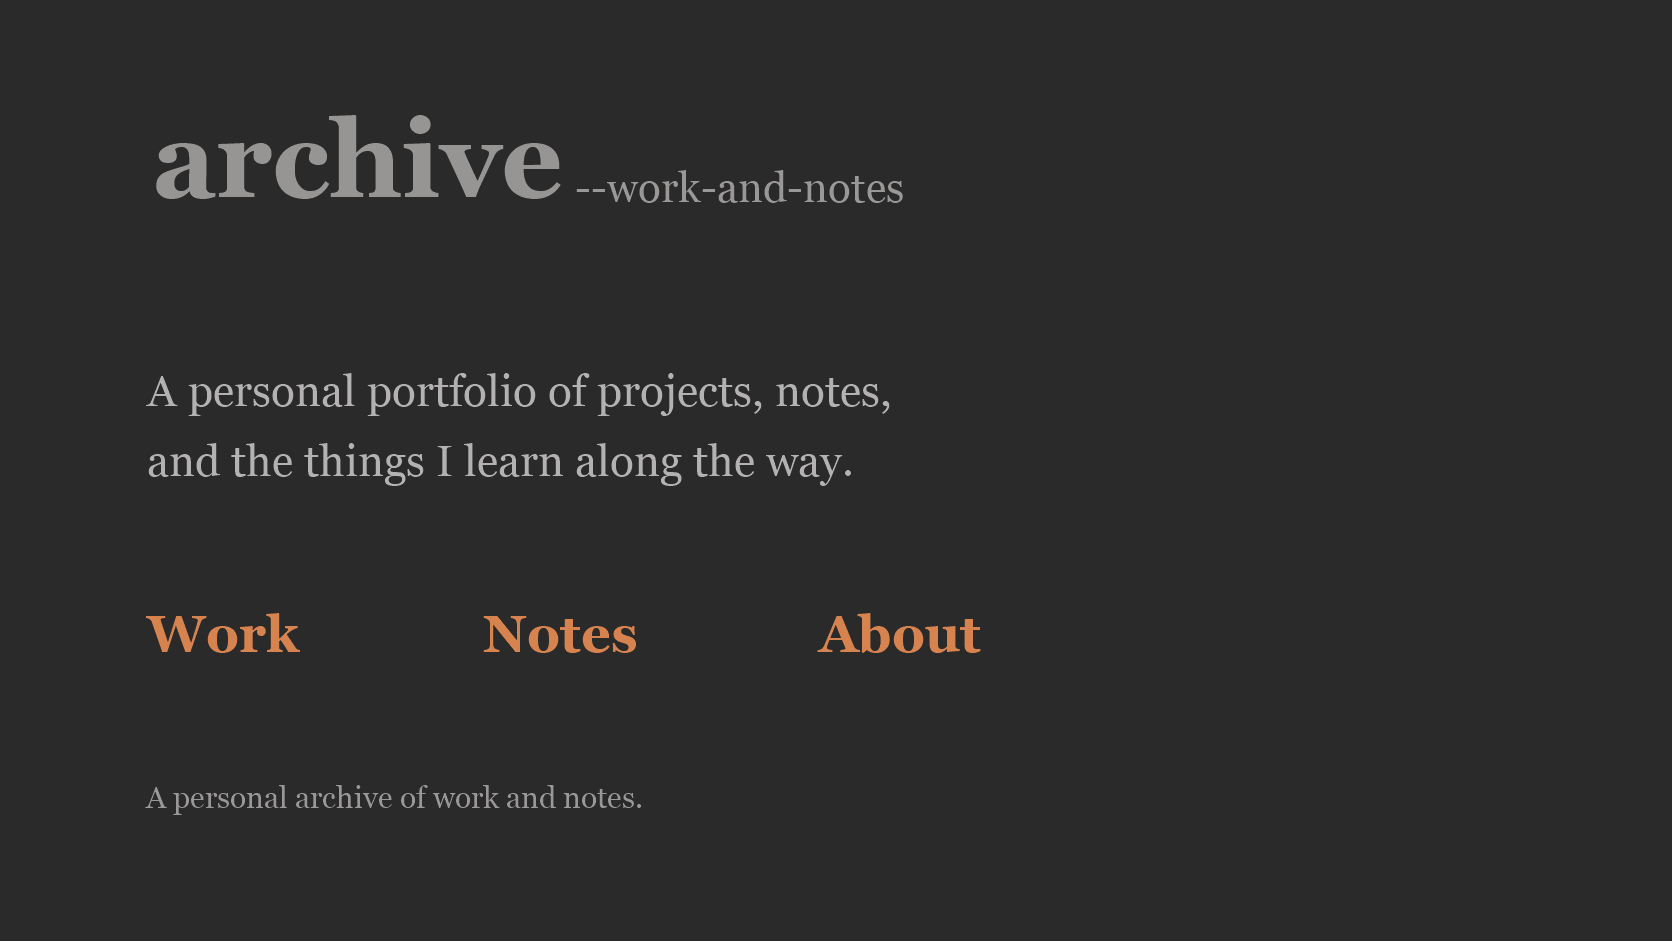
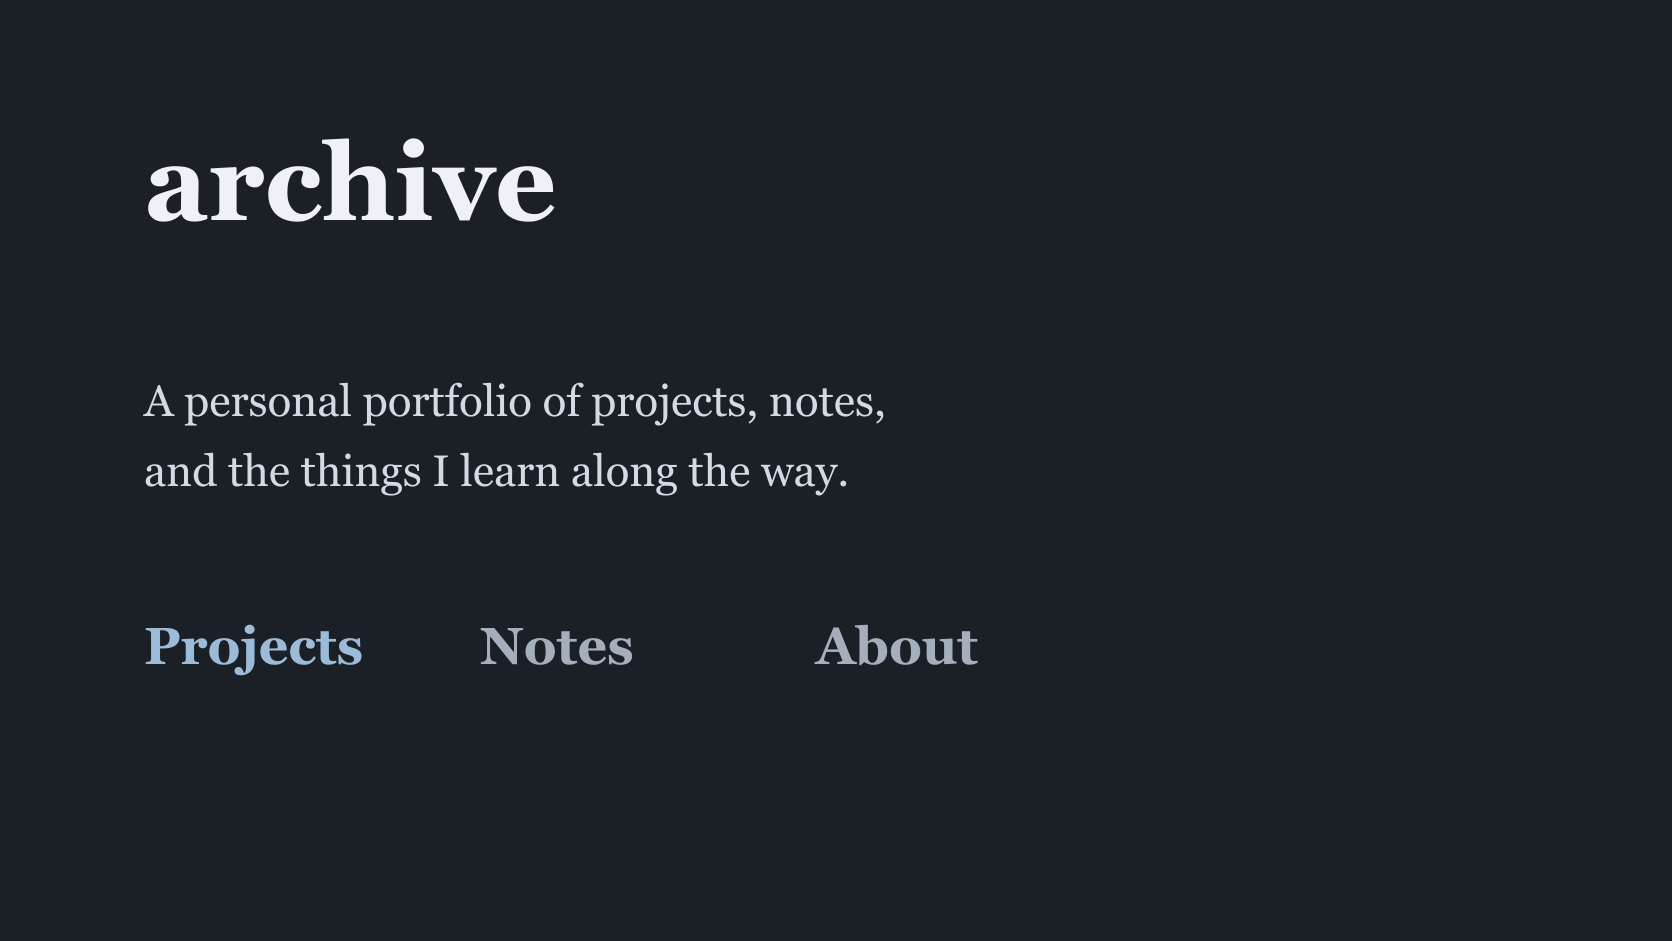
Give portfolio a restrained graphite and steel-blue palette

diff --git a/styles.css b/styles.css
@@ -1,13 +1,17 @@
 :root {
   color-scheme: dark;
-  --page: #2a2a2a;
-  --surface: #333333;
-  --field: #3d3d3a;
-  --ink: #b3b1b1;
-  --muted: #9a9797;
-  --accent: #d7834f;
-  --accent-hover: #e0a079;
-  --danger: #e6a091;
+  --page: #1b2027;
+  --surface: #252c35;
+  --field: #303945;
+  --surface-hover: #3a4552;
+  --ink: #d4dae1;
+  --heading: #eef1f5;
+  --muted: #a5afbc;
+  --accent: #9bbbd8;
+  --accent-hover: #c3d9ec;
+  --danger: #efb1aa;
+  --error-surface: #3b282c;
+  --code-surface: #151a21;
   --font: Adelle, "Roboto Slab", "DejaVu Serif", Georgia, "Times New Roman", sans-serif;
 }
 * { box-sizing: border-box; }
@@ -27,8 +31,8 @@ input:focus-visible, textarea:focus-visible, select:focus-visible { outline-offs
 .skip-link:focus { transform: none; }
 .site-shell { max-width: 960px; margin: 0 auto; padding: 32px 24px; }
 .site-header { display: flex; align-items: center; gap: 20px; min-height: 56px; }
-.brand { min-width: 0; color: #979594; font: bold 42px/1.15 var(--font); overflow-wrap: anywhere; }
-.brand:hover { color: var(--ink); text-decoration: none; }
+.brand { min-width: 0; color: var(--heading); font: bold 42px/1.15 var(--font); overflow-wrap: anywhere; }
+.brand:hover { color: var(--accent-hover); text-decoration: none; }
 .search-region { width: 100%; margin-top: 8px; }
 .search-region label { display: block; margin-bottom: 8px; color: var(--muted); font-size: 14px; }
 .search-field { position: relative; }
@@ -43,7 +47,7 @@ input::placeholder, textarea::placeholder { color: var(--muted); opacity: 1; }
 .archive-layout { display: grid; grid-template-columns: 156px minmax(0,1fr); gap: 42px; min-height: 250px; scroll-margin-top: 24px; }
 .archive-navigation { align-self: start; position: sticky; top: 24px; }
 .switcher { display: flex; flex-direction: column; gap: 4px; }
-.switcher button { width: 100%; min-height: 44px; padding: 8px 0; color: #979594; background: transparent; border: 0; text-align: left; }
+.switcher button { width: 100%; min-height: 44px; padding: 8px 0; color: var(--muted); background: transparent; border: 0; text-align: left; }
 .switcher button:hover, .switcher button[aria-selected="true"] { color: var(--accent); }
 .tab-top { display: flex; align-items: baseline; justify-content: space-between; gap: 10px; font-size: 20px; font-weight: bold; line-height: 24px; }
 .archive-content { min-width: 0; }
@@ -56,7 +60,7 @@ input::placeholder, textarea::placeholder { color: var(--muted); opacity: 1; }
 .post-list { display: grid; grid-template-columns: minmax(0,1fr); gap: 32px; max-width: 650px; }
 .post-item { min-width: 0; }
 .post-heading { margin: 0 0 7px; font-size: 22px; font-weight: bold; line-height: 28px; }
-.post-title { display: inline-block; max-width: 100%; min-height: 44px; padding-block: 8px; color: var(--accent); overflow-wrap: anywhere; }
+.post-title { display: inline-block; max-width: 100%; min-height: 44px; padding-block: 8px; color: var(--heading); overflow-wrap: anywhere; }
 .post-preview { margin: 0; overflow-wrap: anywhere; }
 .post-meta { margin: 0 0 5px; color: var(--muted); font-size: 12px; line-height: 18px; }
 #panel-about .post-list { grid-template-columns: 1fr; max-width: 600px; }
@@ -67,12 +71,12 @@ input::placeholder, textarea::placeholder { color: var(--muted); opacity: 1; }
 .plain { display: inline-flex; align-items: center; justify-content: center; gap: 8px; min-height: 44px; padding: 8px 0; color: var(--accent); background: transparent; border: 0; font-size: 14px; line-height: 22px; text-align: left; }
 .plain:hover { color: var(--accent-hover); text-decoration: underline; }
 .primary, .secondary { display: inline-flex; align-items: center; justify-content: center; gap: 10px; min-height: 44px; padding: 9px 16px; border: 0; border-radius: 3px; font-weight: bold; line-height: 22px; }
-.primary { color: #202020; background: var(--accent); }
+.primary { color: var(--page); background: var(--accent); }
 .primary:hover { background: var(--accent-hover); }
-.secondary { color: var(--ink); background: #4b4b47; }
-.secondary:hover { background: #555551; }
+.secondary { color: var(--ink); background: var(--field); }
+.secondary:hover { background: var(--surface-hover); }
 .danger { color: var(--danger); }
-.primary.danger { color: #202020; background: var(--danger); }
+.primary.danger { color: var(--page); background: var(--danger); }
 .board-controls { display: flex; flex-wrap: wrap; align-items: center; justify-content: space-between; gap: 4px 18px; margin-bottom: 24px; }
 .owner-label { color: var(--muted); font-size: 13px; }
 .workspace-actions { display: flex; flex-wrap: wrap; gap: 18px; align-items: center; }
@@ -81,24 +85,24 @@ input::placeholder, textarea::placeholder { color: var(--muted); opacity: 1; }
 .detail { max-width: 700px; padding-bottom: 12px; scroll-margin-top: 24px; }
 .back { margin: -6px 0 16px; font-size: 13px; }
 .detail-meta { margin: 0 0 6px; color: var(--muted); font-size: 12px; }
-.detail h1 { margin: 0 0 20px; color: var(--accent); font-size: 28px; font-weight: bold; line-height: 36px; overflow-wrap: anywhere; }
+.detail h1 { margin: 0 0 20px; color: var(--heading); font-size: 28px; font-weight: bold; line-height: 36px; overflow-wrap: anywhere; }
 .detail h1:focus { outline: none; }
 .subtitle { margin: -4px 0 22px; font-size: 17px; line-height: 25px; overflow-wrap: anywhere; }
 .body { font-size: 16px; line-height: 25px; overflow-wrap: anywhere; }
 .body p { margin: 0 0 18px; white-space: pre-wrap; }
-.body h2, .body h3 { margin: 26px 0 12px; color: var(--accent); font-weight: bold; line-height: 28px; }
+.body h2, .body h3 { margin: 26px 0 12px; color: var(--heading); font-weight: bold; line-height: 28px; }
 .body h2 { font-size: 22px; }
 .body h3 { font-size: 18px; }
 .body ul, .body ol { margin: 0 0 18px; padding-left: 24px; }
 .body li { margin: 4px 0; }
-.body code { padding: 2px 4px; color: #afa7a0; background: #1f1f1e; border-radius: 2px; font: 13px/20px Courier, monospace; }
-.body pre { max-width: 100%; overflow: auto; padding: 12px 16px; background: #1f1f1e; border-radius: 3px; }
+.body code { padding: 2px 4px; color: var(--ink); background: var(--code-surface); border-radius: 2px; font: 13px/20px Courier, monospace; }
+.body pre { max-width: 100%; overflow: auto; padding: 12px 16px; background: var(--code-surface); border-radius: 3px; }
 .body pre code { padding: 0; }
 .detail-link { display: inline-block; margin: 0 0 18px; overflow-wrap: anywhere; }
 .share-action { display: flex; align-items: center; flex-wrap: wrap; gap: 16px; margin-top: 12px; }
 .copy-status { color: var(--muted); font-size: 13px; }
 .owner-actions { display: flex; gap: 24px; margin-top: 16px; }
-.detail-error, .error { padding: 12px 14px; color: var(--danger); background: #422f2a; font-size: 14px; line-height: 22px; }
+.detail-error, .error { padding: 12px 14px; color: var(--danger); background: var(--error-surface); font-size: 14px; line-height: 22px; }
 .site-footer { display: flex; align-items: flex-end; justify-content: space-between; gap: 24px; margin-top: 40px; }
 .footer-note { margin: 0 0 4px; color: var(--muted); font-size: 13px; }
 .contacts { display: flex; align-items: baseline; flex-wrap: wrap; gap: 6px 16px; }
@@ -112,11 +116,11 @@ body:has(dialog[open]) { overflow: hidden; }
 dialog::backdrop { background: #0009; }
 #auth-dialog, #confirm-dialog { width: min(460px,calc(100% - 32px)); }
 .dialog-header { margin-bottom: 18px; }
-.dialog-header h2 { margin: 0; color: var(--accent); font-size: 24px; font-weight: bold; line-height: 30px; }
+.dialog-header h2 { margin: 0; color: var(--heading); font-size: 24px; font-weight: bold; line-height: 30px; }
 .dialog-copy { margin: 0 0 20px; font-size: 14px; }
 dialog label { display: block; margin: 16px 0 6px; font-size: 14px; font-weight: bold; }
 dialog label span { color: var(--muted); font-weight: normal; }
-dialog input, dialog textarea, dialog select { width: 100%; min-height: 46px; padding: 10px 12px; color: var(--ink); background: #444441; border: 0; border-radius: 3px; font-size: 16px; }
+dialog input, dialog textarea, dialog select { width: 100%; min-height: 46px; padding: 10px 12px; color: var(--ink); background: var(--field); border: 0; border-radius: 3px; font-size: 16px; }
 #profile-copy { min-height: 110px; }
 dialog textarea { min-height: 200px; resize: vertical; line-height: 22px; }
 dialog .error { margin: 16px 0 0; }
@@ -128,7 +132,7 @@ dialog .error { margin: 16px 0 0; }
 .frame-notice { padding: 48px 0; }
 .error-page { min-height: 100svh; display: flex; flex-direction: column; }
 .error-content { margin: auto 0; padding: 60px 0; }
-.error-content h1 { margin: 0 0 18px; color: var(--accent); font-size: 28px; line-height: 36px; }
+.error-content h1 { margin: 0 0 18px; color: var(--heading); font-size: 28px; line-height: 36px; }
 .error-content > p { margin: 0 0 18px; font-size: 16px; }
 .text-link { display: inline-block; min-height: 44px; padding-block: 8px; }
 @media (max-width: 850px) {

diff --git a/index.html b/index.html
@@ -5,7 +5,7 @@
     <meta name="viewport" content="width=device-width, initial-scale=1" />
     <meta name="description" content="A small place for work, notes, and the things in between." />
     <meta name="robots" content="index, follow" />
-    <meta name="theme-color" content="#2a2a2a" />
+    <meta name="theme-color" content="#1b2027" />
     <meta name="color-scheme" content="dark" />
     <meta name="referrer" content="no-referrer" />
     <meta http-equiv="Content-Security-Policy" content="default-src 'self'; script-src 'self' https://cdn.jsdelivr.net 'sha256-fF03TuCN+Idsz2WfawnadztDwB3/ibP4mUu7v5kNHUk='; style-src 'self'; font-src 'self'; img-src 'self'; connect-src 'self' https://bctmgeblffqdmkiioxuf.supabase.co; object-src 'none'; base-uri 'none'; form-action 'self'; frame-src 'none'" />
@@ -15,17 +15,17 @@
     <meta property="og:title" content="archive" />
     <meta property="og:description" content="A small place for work, notes, and the things in between." />
     <meta property="og:url" content="https://maximkochergin.github.io/portfolio-board/" />
-    <meta property="og:image" content="https://maximkochergin.github.io/portfolio-board/assets/images/portfolio-cover.png?v=git-dark-1" />
+    <meta property="og:image" content="https://maximkochergin.github.io/portfolio-board/assets/images/portfolio-cover.png?v=slate-1" />
     <meta property="og:image:alt" content="Archive. A personal portfolio of work and notes on a dark background." />
     <meta property="og:image:width" content="1672" />
     <meta property="og:image:height" content="941" />
     <meta name="twitter:card" content="summary_large_image" />
     <meta name="twitter:title" content="archive" />
     <meta name="twitter:description" content="A small place for work, notes, and the things in between." />
-    <meta name="twitter:image" content="https://maximkochergin.github.io/portfolio-board/assets/images/portfolio-cover.png?v=git-dark-1" />
+    <meta name="twitter:image" content="https://maximkochergin.github.io/portfolio-board/assets/images/portfolio-cover.png?v=slate-1" />
     <meta name="twitter:image:alt" content="Archive. A personal portfolio of work and notes on a dark background." />
-    <link rel="icon" href="./assets/icons/paper-mark.svg" type="image/svg+xml" />
-    <link rel="stylesheet" href="./styles.css?v=simple-3" />
+    <link rel="icon" href="./assets/icons/paper-mark.svg?v=slate-1" type="image/svg+xml" />
+    <link rel="stylesheet" href="./styles.css?v=slate-1" />
     <script src="./assets/navigation.js?v=git-dark-1" defer></script>
     <script type="application/ld+json">{"@context":"https://schema.org","@type":"WebSite","name":"archive","url":"https://maximkochergin.github.io/portfolio-board/","description":"A small place for work, notes, and the things in between."}</script>
   </head>

diff --git a/404.html b/404.html
@@ -4,16 +4,16 @@
     <meta charset="utf-8" />
     <meta name="viewport" content="width=device-width, initial-scale=1" />
     <meta name="robots" content="noindex" />
-    <meta name="theme-color" content="#2a2a2a" />
+    <meta name="theme-color" content="#1b2027" />
     <meta name="color-scheme" content="dark" />
     <meta http-equiv="Content-Security-Policy" content="default-src 'self'; script-src 'none'; style-src 'self'; font-src 'self'; img-src 'self'; object-src 'none'; base-uri 'none'; form-action 'none'; frame-src 'none'" />
     <title>page not found | archive</title>
-    <link rel="icon" href="/portfolio-board/assets/icons/paper-mark.svg" type="image/svg+xml" />
-    <link rel="stylesheet" href="/portfolio-board/styles.css?v=simple-2" />
+    <link rel="icon" href="/portfolio-board/assets/icons/paper-mark.svg?v=slate-1" type="image/svg+xml" />
+    <link rel="stylesheet" href="/portfolio-board/styles.css?v=slate-1" />
   </head>
   <body>
     <main class="page site-shell error-page">
-      <header class="site-header"><a class="brand" href="/portfolio-board/" aria-label="archive home">archive</a><p class="header-note">--work-and-notes</p></header>
+      <header class="site-header"><a class="brand" href="/portfolio-board/" aria-label="archive home">archive</a></header>
       <div class="error-content">
         <h1 id="error-title">page not found.</h1>
         <p>This address doesn't lead to an entry in the archive.</p>

diff --git a/docs/PROJECT_CONTEXT.md b/docs/PROJECT_CONTEXT.md
@@ -23,7 +23,7 @@ A minimalist, English-language personal portfolio and notes board. Visitors can 
 
 ## Current state
 
-The site is published at `https://maximkochergin.github.io/portfolio-board/`. The October 2026 rebuild follows the dark version of git-scm.com: charcoal backgrounds, muted orange headings and links, the same serif font stack, and compact proportions. The user requested a faithful, minimal adaptation, no design plugin, no decorative dividers, and no clock or greeting. Projects / Notes / About use simple text navigation, single-column previews, and an optional filter for sections with six or more entries. Contacts are near the introduction. The portfolio has no Git attribution text. The concise Git credit belongs only in the repository README, which contains no stack description or launch instructions. Owner editing controls are hidden from visitors; a discreet Owner sign in link in the footer opens owner sign-in, and `?manage=1` remains a direct route. The owner can edit the title/introduction through Edit intro; no personal identity is filled automatically. Sign out ends only the current browser session. `history/REVIEW.md` records the 2026-09-25 audit; its historical findings should be checked against current code before treating them as open bugs.
+The site is published at `https://maximkochergin.github.io/portfolio-board/`. The October 12 palette update gives the portfolio an independent, restrained dark identity: graphite backgrounds, clear neutral text and headings, and a muted steel-blue accent for links and selected navigation. All UI colors come from semantic CSS tokens. Preserve the serif font stack, compact layout, no design plugin, no decorative dividers, and no clock or greeting. Projects / Notes / About use simple text navigation, single-column previews, and an optional filter for sections with six or more entries. Contacts are near the introduction. Neither the portfolio nor the README contains inspiration credits; the README contains no stack description or launch instructions. Owner editing controls are hidden from visitors; a discreet Owner sign in link in the footer opens owner sign-in, and `?manage=1` remains a direct route. The owner can edit the title/introduction through Edit intro; no personal identity is filled automatically. Sign out ends only the current browser session. `history/REVIEW.md` records the 2026-09-25 audit; its historical findings should be checked against current code before treating them as open bugs.
 
 For a new session, the user only needs to describe the task. `AGENTS.md` carries the repository workflow automatically; Codex Memory may retain user preferences, but Git and the working tree remain authoritative for code and in-progress changes. When resuming a particular unfinished task in a new thread, state its intended outcome briefly; do not paste the project history.
 
